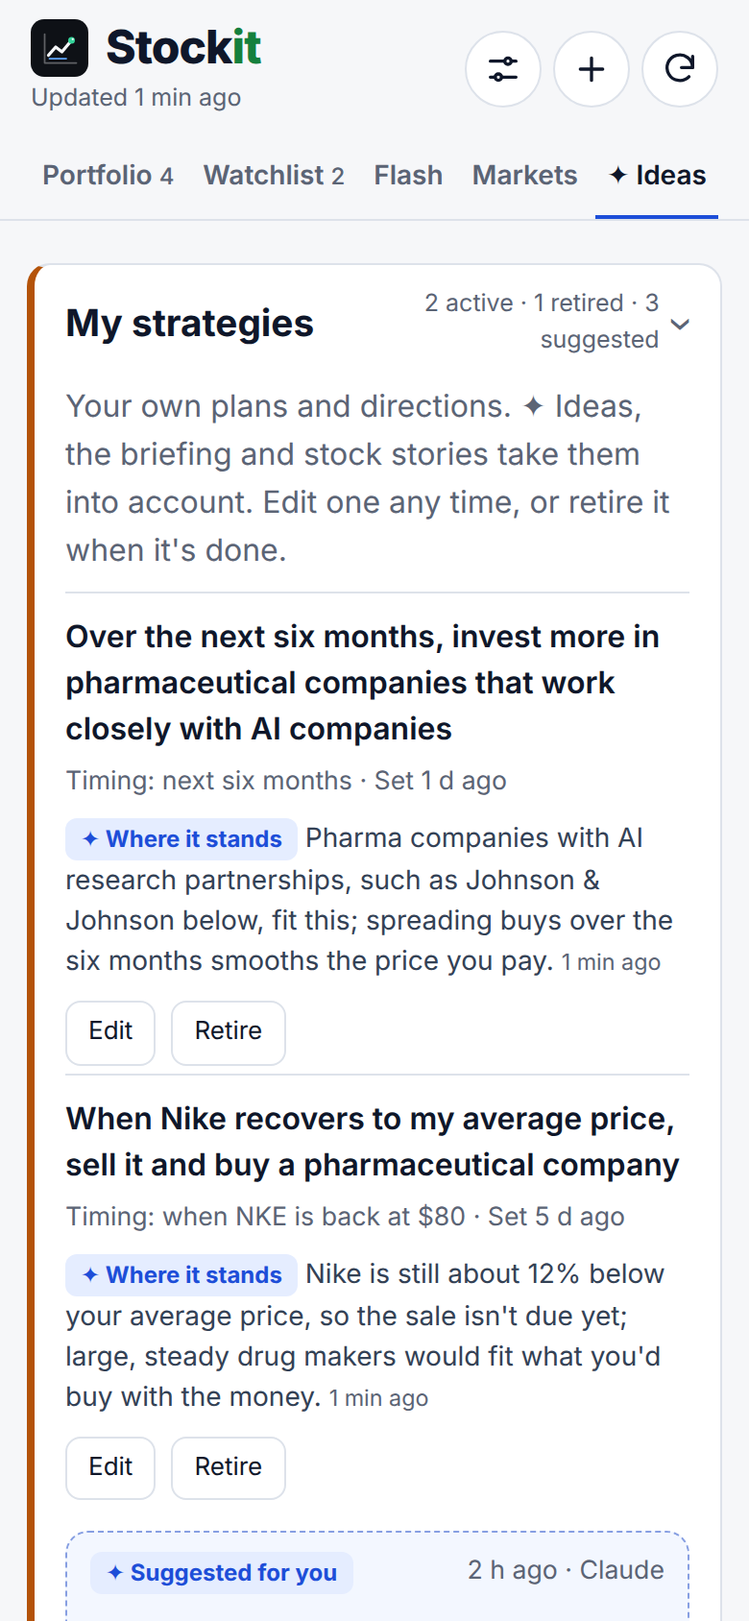
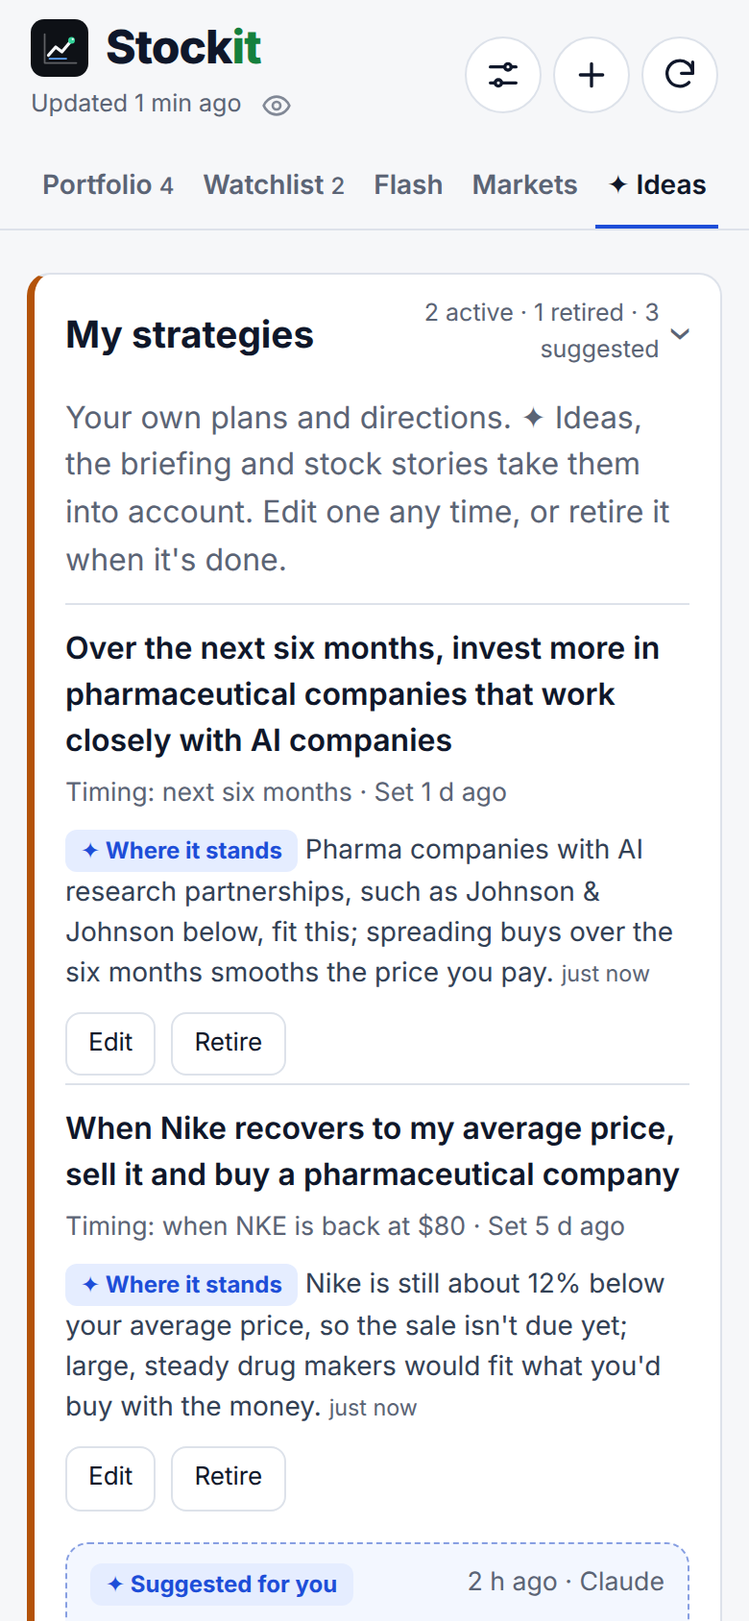
Stockit 1.11.0: privacy mode hides your amounts with one tap

diff --git a/Stockit.js b/Stockit.js
@@ -10,6 +10,7 @@
  *  - Prices and a year of history, P/E, market cap, dividend, analyst view, 52-week range, explained in plain words
  *  - Headlines from Yahoo Finance and the web (Google News), plus the crowd's mood from StockTwits
  *  - Flash: each stock's top headlines, a TL;DR of any headline (✦ AI or taken from the article), then the original source
+ *  - Privacy mode: one tap on the eye hides your amounts (value, gains, shares, average prices) for demos
  *  - ✦ Suggested strategies from your portfolio, watchlist and plans, refreshed on a schedule you choose; keep any as your own, and edit every strategy
  *  - Check my portfolio: screenshots of your broker's app compared with Stockit, every difference a suggestion you apply or ignore
  *  - All your money in one currency of your choice (euros, dollars, …), in the app and the widget
@@ -28,7 +29,7 @@
  */
 
 // This build's version. When releasing, bump it and add a matching entry to releases.json.
-const VERSION = '1.10.0';
+const VERSION = '1.11.0';
 const APP_ID = 'stockit';   // unique per app, never changes
 const REPO_RAW = 'https://raw.githubusercontent.com/gadominas/StockIt/main/';
 const SCRIPT_FILE = 'Stockit.js';   // the script's file name in the repository
@@ -226,7 +227,7 @@ const write = (n, v) => {
 
 // Defaults first, saved choices on top. Loaded here, before the app and widget branches.
 const settings = Object.assign(
-  { tab: "own", sort: "value", range: "1y", addTo: "watch", flashFold: {}, ideasFold: {}, checkIntro: 0, aiStrat: true,   // aiStrat: suggested strategies refresh on their own    // remembered picks; flashFold: symbol → newest headline time when folded
+  { tab: "own", sort: "value", range: "1y", addTo: "watch", flashFold: {}, ideasFold: {}, checkIntro: 0, aiStrat: true, privacy: false,   // privacy: your amounts hidden, for showing the app to someone   // aiStrat: suggested strategies refresh on their own    // remembered picks; flashFold: symbol → newest headline time when folded
     refreshOnOpen: true, widgetMoney: false, homeCur: "auto",   // homeCur: the currency your money is shown in (auto: your biggest holdings')                                    // Portfolio
     newsYahoo: true, newsWeb: true, crowd: true,                                // News and signals
     style: "balanced",                                                          // AI advice: cautious, balanced, adventurous
@@ -1454,7 +1455,7 @@ function clientState() {
       theme: settings.theme, density: settings.density, font: settings.font, textSize: settings.textSize,
       speechEngine: settings.speechEngine || "device", voiceURI: settings.voiceURI || "", voiceRate: settings.voiceRate || 1, voicePitch: settings.voicePitch || 1,
       voiceGender: settings.voiceGender || "all", ttsModel: settings.ttsModel || "gpt-4o-mini-tts", ttsVoice: settings.ttsVoice || "coral",
-      ttsInstructions: settings.ttsInstructions || "", hasOpenAI: !!keyFor("openai"), flashFold: settings.flashFold || {}, ideasFold: settings.ideasFold || {}, checkIntro: settings.checkIntro || 0, aiStrat: settings.aiStrat !== false,
+      ttsInstructions: settings.ttsInstructions || "", hasOpenAI: !!keyFor("openai"), flashFold: settings.flashFold || {}, ideasFold: settings.ideasFold || {}, checkIntro: settings.checkIntro || 0, aiStrat: settings.aiStrat !== false, privacy: !!settings.privacy,
     },
     ttsModels: settings.ttsModels || null,
     lastRefresh: settings.lastRefresh, palettes: PALETTES, version: VERSION,
@@ -1524,7 +1525,7 @@ async function handle(m) {
     case "secret-remove": if (SECRETS[m.v] && Keychain.contains(SECRETS[m.v].key)) { Keychain.remove(SECRETS[m.v].key); toast(`${SECRETS[m.v].name} removed`); } return push();
     case "state": return push();
     case "set":
-      if (["tab", "sort", "range", "addTo", "refreshOnOpen", "widgetMoney", "newsYahoo", "newsWeb", "crowd", "style", "ai", "theme", "density", "font", "textSize", "checkUpdates", "aiStrat",
+      if (["tab", "sort", "range", "addTo", "refreshOnOpen", "widgetMoney", "newsYahoo", "newsWeb", "crowd", "style", "ai", "theme", "density", "font", "textSize", "checkUpdates", "aiStrat", "privacy",
         "speechEngine", "voiceURI", "voiceRate", "voicePitch", "voiceGender", "ttsModel", "ttsVoice", "ttsInstructions"].includes(m.k)) settings[m.k] = m.v;
       if (m.k === "ideasFold" && m.v && typeof m.v === "object" && !Array.isArray(m.v)) settings.ideasFold = { strat: !!m.v.strat, themes: !!m.v.themes, ideas: !!m.v.ideas };
       if (m.k === "flashFold" && m.v && typeof m.v === "object" && !Array.isArray(m.v))   // folded Flash cards, kept for stocks you follow
@@ -1533,7 +1534,7 @@ async function handle(m) {
       if (m.k === "checkIntro" && isFinite(m.v)) settings.checkIntro = Math.max(0, Math.min(99, +m.v));
       write("settings", settings);
       if (m.k === "homeCur") { await loadFx().catch(() => {}); push(); }
-      if (m.k === "widgetMoney" || m.k === "homeCur") saveWidget(widgetSnapshot());
+      if (m.k === "widgetMoney" || m.k === "homeCur" || m.k === "privacy") saveWidget(widgetSnapshot());
       return;
     case "cfg": {
       if (m.k === "*") settings.cfg = {}; else setCfg(m.k, m.v);
@@ -1864,6 +1865,21 @@ function clientApp() {
     if (h == null) return f(v, cur, compact);
     return f(h, HOME(), compact) + (foreign(cur) ? `<small class="orig">${f(v, cur, compact)}</small>` : "");
   };
+  // Privacy mode (the eye in the header): your own amounts become •••• so the app can be shown to someone.
+  // Market prices and percentages stay; amounts written by AI or in your strategies are masked too.
+  const priv = () => !!S.settings.privacy;
+  const P = h => priv() ? `<span class="pv" title="Hidden">••••</span>` : h;
+  const MONEY_RX = /(?:US\$|[$€£¥]|\b(?:USD|EUR|GBP|CHF|SEK|NOK|DKK|PLN|JPY|CAD|AUD|HKD)\s?)\s?\d[\d,.\u00a0 ]*\d(?:\s?(?:[kKmMbB]n?|million|billion|thousand)\b)?|\b\d[\d,.\u00a0]*\d?\s?(?:USD|EUR|GBP|CHF|SEK|NOK|DKK|PLN|JPY|CAD|AUD|HKD|euros?|dollars?|pounds?)\b|\b\d[\d,.]*\s?(?:shares|units)\b/gi;
+  const mask = t => priv() ? String(t == null ? "" : t).replace(MONEY_RX, "••••") : t;
+  const PRIV_ON = `<svg viewBox="0 0 24 24" aria-hidden="true"><path d="M3 3l18 18M10.6 5.1A10.9 10.9 0 0 1 12 5c5.5 0 9.3 4.6 10 7-.3 1-1.1 2.4-2.4 3.8M6.6 6.6C4.4 8 2.9 10 2 12c.9 2.5 4.6 7 10 7 1.8 0 3.4-.5 4.8-1.2M9.9 9.9a3 3 0 0 0 4.2 4.2" fill="none" stroke="currentColor" stroke-width="2" stroke-linecap="round" stroke-linejoin="round"/></svg>`;
+  const PRIV_OFF = `<svg viewBox="0 0 24 24" aria-hidden="true"><path d="M2 12c.9-2.5 4.6-7 10-7s9.1 4.5 10 7c-.9 2.5-4.6 7-10 7S2.9 14.5 2 12z" fill="none" stroke="currentColor" stroke-width="2" stroke-linejoin="round"/><circle cx="12" cy="12" r="3" fill="none" stroke="currentColor" stroke-width="2"/></svg>`;
+  function renderPriv() {
+    const b = $("#privbtn"); if (!b) return;
+    b.innerHTML = priv() ? PRIV_ON : PRIV_OFF; b.classList.toggle("on", priv());
+    b.setAttribute("aria-pressed", priv() ? "true" : "false");
+    b.setAttribute("aria-label", priv() ? "Show your amounts" : "Hide your amounts");
+    document.body.classList.toggle("privacy", priv());
+  }
   const signed = (v, cur) => v == null || !isFinite(v) ? "—" : (v >= 0 ? "+" : "−") + money(Math.abs(v), cur, false, 2);
   const pct = (v, d = 2) => v == null || !isFinite(v) ? "—" : (v > 0 ? "+" : v < 0 ? "−" : "") + Math.abs(v).toFixed(d) + "%";
   const bigN = v => v == null || !isFinite(v) ? "—" : v >= 1e12 ? nf(v / 1e12, 2) + "T" : v >= 1e9 ? nf(v / 1e9, 1) + "B" : v >= 1e6 ? nf(v / 1e6, 0) + "M" : nf(v, 0);
@@ -2077,7 +2093,7 @@ function clientApp() {
   setInterval(tickMarkets, 30000);
 
   function paras(t, links) {
-    return String(t || "").split(/\n\s*\n/).map(p => p.trim()).filter(Boolean).map(p => `<p>${esc(p).replace(/\*\*(.+?)\*\*/g, "<strong>$1</strong>")
+    return String(mask(t) || "").split(/\n\s*\n/).map(p => p.trim()).filter(Boolean).map(p => `<p>${esc(p).replace(/\*\*(.+?)\*\*/g, "<strong>$1</strong>")
       .replace(/\s*\[(\d+(?:\s*,\s*\d+)*)\]/g, (m, g) => links ? `<span class="refw">${g.split(/\s*,\s*/).map(n => links[+n - 1] ? `<button class="ref" data-act="openlink" data-v="${esc(links[+n - 1].l)}" aria-label="Open headline ${+n}">${+n}</button>` : "").join("")}</span>` : "")}</p>`);
   }
   const sigChip = sig => sig ? `<span class="chip sig-${sig.signal}">✦ ${cap(sig.signal)}</span>` : "";
@@ -2095,9 +2111,9 @@ function clientApp() {
     const t = [["own", "Portfolio", own], ["watch", "Watchlist", watch], ["flash", "Flash", null], ["markets", "Markets", null], ["ideas", S.settings.hasKey ? "✦ Ideas" : "Ideas", null]];
     $("#tabs").innerHTML = t.map(([k, l, n]) => `<button class="${tab === k ? "on" : ""}" data-act="tab" data-v="${k}">${l}${n != null ? ` <span class="n">${n}</span>` : ""}</button>`).join("");
   }
-  function renderAll() { render(); renderDetail(); renderNews(); renderCheck(); renderAdd(); renderAI(); renderCfg(); }
+  function renderAll() { renderPriv(); render(); renderDetail(); renderNews(); renderCheck(); renderAdd(); renderAI(); renderCfg(); }
   function render() {
-    applyLook(); renderStatus(); renderTabs();
+    applyLook(); renderPriv(); renderStatus(); renderTabs();
     $("#main").innerHTML = tab === "ideas" ? ideasHTML() : tab === "flash" ? flashHTML() : tab === "markets" ? marketsHTML() : listHTML();
   }
 
@@ -2126,7 +2142,7 @@ function clientApp() {
   }
   function row(x) {
     const d = dayPct(x), c = cls(d);
-    const ph = posHome(x), sub = x.list === "own" && x.sh && x.price != null ? `${nf(x.sh, x.sh % 1 ? 2 : 0)} shares · ${ph != null ? money(ph, HOME(), true) : money(x.sh * x.price, x.cur, true)}` : esc(x.name);
+    const ph = posHome(x), sub = x.list === "own" && x.sh && x.price != null ? (priv() ? `${P("")} shares · ${P("")}` : `${nf(x.sh, x.sh % 1 ? 2 : 0)} shares · ${ph != null ? money(ph, HOME(), true) : money(x.sh * x.price, x.cur, true)}`) : esc(x.name);
     const sig = x.sig ? `<div class="r-sig">${sigChip(x.sig)}<span>${esc(x.sig.line)}</span></div>`
       : x.trend ? `<div class="r-sig"><span class="chip ex">${TREND[x.trend.trend]} · no AI</span></div>` : "";
     return `<div class="row" role="button" tabindex="0" data-act="open" data-v="${esc(x.s)}">
@@ -2148,10 +2164,10 @@ function clientApp() {
     const vals = items.map(x => [x.s, t.cur === HOME() ? posHome(x) : null]).filter(v => v[1] != null).sort((a, b) => b[1] - a[1]);
     const shown = vals.slice(0, 6), rest = vals.slice(6).reduce((a, b) => a + b[1], 0);
     if (rest > 0) shown.push(["Other", rest]);
-    return `<section class="sum">${checkIcon()}<span class="sum-k">Portfolio value${t.mixed ? ` in ${esc(t.cur)}` : ""}</span><div class="sum-v">${money(t.value, t.cur)}</div>
-      <div class="sum-d ${cls(t.day)}">${signed(t.day, t.cur)} (${pct(dp)}) today</div>
-      ${t.costKnown && t.cost ? `<div class="sum-g">${signed(t.value - t.cost, t.cur)} (${pct((t.value / t.cost - 1) * 100)}) since you bought</div>` : ""}
-      ${T.length > 1 ? `<p class="note">Plus ${T.slice(1).map(z => money(z.value, z.cur)).join(" and ")} until their exchange rates load</p>` : ""}
+    return `<section class="sum">${checkIcon()}<span class="sum-k">Portfolio value${t.mixed ? ` in ${esc(t.cur)}` : ""}</span><div class="sum-v">${P(money(t.value, t.cur))}</div>
+      <div class="sum-d ${cls(t.day)}">${P(signed(t.day, t.cur))} (${pct(dp)}) today</div>
+      ${t.costKnown && t.cost ? `<div class="sum-g">${P(signed(t.value - t.cost, t.cur))} (${pct((t.value / t.cost - 1) * 100)}) since you bought</div>` : ""}
+      ${T.length > 1 ? `<p class="note">Plus ${T.slice(1).map(z => P(money(z.value, z.cur))).join(" and ")} until their exchange rates load</p>` : ""}
       ${t.mixed ? `<p class="note">Stocks in other currencies at today's exchange rates. Change the currency in <button class="link small" data-act="cfgopen">Settings › Portfolio</button>.</p>` : ""}
       ${shown.length > 1 ? `<div class="alloc" aria-hidden="true">${shown.map((v, i) => `<i style="flex:${v[1].toFixed(2)};background:color-mix(in srgb, var(--signal) ${Math.max(18, 100 - i * 13)}%, var(--sheet))"></i>`).join("")}</div>
         <div class="alloc-l">${shown.map((v, i) => `<span><i style="background:color-mix(in srgb, var(--signal) ${Math.max(18, 100 - i * 13)}%, var(--sheet))"></i>${esc(v[0])} ${(v[1] / t.value * 100).toFixed(0)}%</span>`).join("")}</div>` : ""}
@@ -2176,7 +2192,7 @@ function clientApp() {
     S.stocks.forEach(x => { if (x.sig && n[x.sig.signal] != null) n[x.sig.signal]++; });
     return `<section class="brief mood-${esc(b.mood)}">
       <div class="brief-h"><span class="badge-ai">✦ AI briefing by ${PN[b.by] || esc(b.by)}</span><span class="note">${rel(b.at)}</span></div>
-      <h2 class="brief-t">${esc(b.headline)}</h2>
+      <h2 class="brief-t">${esc(mask(b.headline))}</h2>
       <div class="brief-s">${(briefFull ? ps : ps.slice(0, 1)).join("")}</div>
       ${ps.length > 1 ? `<button class="link small" data-act="brieffull">${briefFull ? "Show less" : "Read the full briefing"}</button>` : ""}
       ${briefFull && (b.watch || []).length ? `<h3 class="mini">Keep an eye on</h3><ul class="dots">${b.watch.map(w => `<li>${esc(w)}</li>`).join("")}</ul>` : ""}
@@ -2196,8 +2212,8 @@ function clientApp() {
     const card = g => {
       const ed = sgEdit[g.id];
       return `<article class="strat-c sg">${ed ? `<textarea class="sg-in" data-id="${esc(g.id)}" data-f="text" rows="3">${esc(ed.text)}</textarea><input class="sg-in cfgin wide" data-id="${esc(g.id)}" data-f="when" value="${esc(ed.when)}" placeholder="Timing (optional)">`
-        : `<p class="strat-t">${esc(g.text)}</p>${g.when ? `<small class="muted">Timing: ${esc(g.when)}</small>` : ""}`}
-        ${g.why ? `<p class="strat-ai">${esc(g.why)}</p>` : ""}${(g.tickers || []).length ? `<div class="sg-tk">${g.tickers.map(t => `<button class="chip" data-act="${S.stocks.some(x => x.s === t) ? "open" : "preview"}" data-v="${esc(t)}">${esc(t)}</button>`).join("")}</div>` : ""}
+        : `<p class="strat-t">${esc(mask(g.text))}</p>${g.when ? `<small class="muted">Timing: ${esc(mask(g.when))}</small>` : ""}`}
+        ${g.why ? `<p class="strat-ai">${esc(mask(g.why))}</p>` : ""}${(g.tickers || []).length ? `<div class="sg-tk">${g.tickers.map(t => `<button class="chip" data-act="${S.stocks.some(x => x.s === t) ? "open" : "preview"}" data-v="${esc(t)}">${esc(t)}</button>`).join("")}</div>` : ""}
         <div class="aic-btns"><button class="sm primary" data-act="sgkeep" data-v="${esc(g.id)}">${ed ? "Keep my version" : "Keep"}</button>${ed ? `<button class="sm" data-act="sgcancel" data-v="${esc(g.id)}">Cancel</button>` : `<button class="sm" data-act="sgedit" data-v="${esc(g.id)}">Edit, then keep</button>`}<button class="sm" data-act="sgdismiss" data-v="${esc(g.id)}">Dismiss</button></div></article>`;
     };
     return `<div class="sg-box"><div class="sg-h"><span class="badge-ai">✦ Suggested for you</span>${G ? `<small class="muted">${rel(G.at)}${G.by ? " · " + (PN[G.by] || esc(G.by)) : ""}</small>` : ""}</div>
@@ -2214,9 +2230,9 @@ function clientApp() {
       if (ed) return `<article class="strat-c editing"><label class="lk-l">Your strategy</label><textarea id="stratEditText" rows="3">${esc(stratEdit.text)}</textarea>
         <input id="stratEditWhen" class="cfgin wide" placeholder="Timing (optional)" value="${esc(stratEdit.when)}">
         <div class="aic-btns"><button class="sm primary" data-act="stratsave" data-v="${esc(g.id)}">Save</button><button class="sm" data-act="stratcancel">Cancel</button></div></article>`;
-      return `<article class="strat-c ${g.status === "retired" ? "retired" : ""}"><p class="strat-t">${esc(g.text)}</p>
-      <small class="muted">${g.when ? `Timing: ${esc(g.when)} · ` : ""}${g.from === "suggested" ? "From a ✦ suggestion · " : ""}Set ${rel(g.at)}${g.editedAt ? ` · changed ${rel(g.editedAt)}` : ""}${g.status === "retired" && g.retiredAt ? ` · retired ${rel(g.retiredAt)}` : ""}</small>
-      ${n ? `<p class="strat-ai"><span class="badge-ai">✦ Where it stands</span> ${esc(n[0])} <small class="muted">${rel(n[1])}</small></p>` : ""}
+      return `<article class="strat-c ${g.status === "retired" ? "retired" : ""}"><p class="strat-t">${esc(mask(g.text))}</p>
+      <small class="muted">${g.when ? `Timing: ${esc(mask(g.when))} · ` : ""}${g.from === "suggested" ? "From a ✦ suggestion · " : ""}Set ${rel(g.at)}${g.editedAt ? ` · changed ${rel(g.editedAt)}` : ""}${g.status === "retired" && g.retiredAt ? ` · retired ${rel(g.retiredAt)}` : ""}</small>
+      ${n ? `<p class="strat-ai"><span class="badge-ai">✦ Where it stands</span> ${esc(mask(n[0]))} <small class="muted">${rel(n[1])}</small></p>` : ""}
       <div class="aic-btns">${g.status === "retired"
         ? `<button class="sm" data-act="stratrestore" data-v="${esc(g.id)}">Bring back</button><button class="sm danger ${stratArmed === g.id ? "armed" : ""}" data-act="stratdelete" data-v="${esc(g.id)}">${stratArmed === g.id ? "Confirm" : "Delete"}</button>`
         : `<button class="sm" data-act="stratedit" data-v="${esc(g.id)}">Edit</button><button class="sm" data-act="stratretire" data-v="${esc(g.id)}">Retire</button>`}</div></article>`;
@@ -2333,11 +2349,11 @@ function clientApp() {
     if (!x.sh) return `<section class="hold"><p class="muted">How many shares do you own? Add them to see your value and gain.</p><button class="sm primary" data-act="holding" data-v="${esc(x.s)}">Add shares</button></section>`;
     const v = x.price != null ? x.sh * x.price : null, g = x.cost && v != null ? v - x.sh * x.cost : null, dh = dayHome(x);
     return `<section class="hold"><div class="hold-g">
-      <div><small>Shares</small><b>${nf(x.sh, x.sh % 1 ? 2 : 0)}</b></div><div><small>Value</small><b>${homeMoney(v, x.cur)}</b></div>
-      <div><small>Today</small><b class="${cls(dh != null ? dh : dayPct(x))}">${dh != null ? signed(dh, HOME()) + (foreign(x.cur) ? `<small class="orig">${signed(x.sh * (x.price - x.prev), x.cur)}</small>` : "") : x.prev ? signed(x.sh * (x.price - x.prev), x.cur) : "—"}</b></div>
-      <div><small>Since you bought</small><b class="${cls(g)}">${g != null ? homeMoney(g, x.cur, false, true) + " (" + pct((x.price / x.cost - 1) * 100, 1) + ")" : "—"}</b></div></div>
+      <div><small>Shares</small><b>${P(nf(x.sh, x.sh % 1 ? 2 : 0))}</b></div><div><small>Value</small><b>${P(homeMoney(v, x.cur))}</b></div>
+      <div><small>Today</small><b class="${cls(dh != null ? dh : dayPct(x))}">${P(dh != null ? signed(dh, HOME()) + (foreign(x.cur) ? `<small class="orig">${signed(x.sh * (x.price - x.prev), x.cur)}</small>` : "") : x.prev ? signed(x.sh * (x.price - x.prev), x.cur) : "—")}${priv() ? ` <small>${pct(dayPct(x))}</small>` : ""}</b></div>
+      <div><small>Since you bought</small><b class="${cls(g)}">${g != null ? P(homeMoney(g, x.cur, false, true)) + " (" + pct((x.price / x.cost - 1) * 100, 1) + ")" : "—"}</b></div></div>
       ${foreign(x.cur) && fxr(x.cur) != null ? `<p class="note">In ${esc(HOME())} at today's rate; the stock trades in ${esc(x.cur)}.</p>` : ""}
-      ${x.cost ? `<p class="note">Average price ${money(x.cost, x.cur)}</p>` : ""}</section>`;
+      ${x.cost ? `<p class="note">Average price ${P(money(x.cost, x.cur))}</p>` : ""}</section>`;
   }
   function signalHTML(x) {
     if (x.sig) return `<section class="sigsec"><h3 class="sec">Stockit's view</h3>
@@ -2583,7 +2599,7 @@ function clientApp() {
     const d = dayPct(x), own = x.list === "own" && x.sh, dh = own ? dayHome(x) : null, todayMoney = dh != null ? dh : own && x.prev != null && x.price != null ? x.sh * (x.price - x.prev) : null, tmCur = dh != null ? HOME() : x.cur;
     const r = ratingWord(x.f && x.f.rating), c = x.crowd, crowd = c && c.bull + c.bear >= 5 ? Math.round(c.bull / (c.bull + c.bear) * 100) : null;
     return `<span class="pill ${cls(d)}">${pct(d)}</span>
-      ${own ? `<span class="fl-k">${nf(x.sh, x.sh % 1 ? 2 : 0)} share${x.sh === 1 ? "" : "s"}</span><span class="fl-m ${cls(todayMoney)}">${todayMoney != null ? signed(todayMoney, tmCur) + " today" : ""}</span>`
+      ${own ? `<span class="fl-k">${P(nf(x.sh, x.sh % 1 ? 2 : 0))} share${x.sh === 1 ? "" : "s"}</span><span class="fl-m ${cls(todayMoney)}">${todayMoney != null ? P(signed(todayMoney, tmCur)) + " today" : ""}</span>`
         : x.list !== "own" ? `<span class="fl-k">Watching</span>` : `<span class="fl-k">Shares not set</span>`}
       ${x.sig ? sigChip(x.sig) : x.trend ? `<span class="chip t-${x.trend.trend}">${TREND[x.trend.trend]}</span>` : ""}
       ${r ? `<span class="fl-r" title="Average analyst rating">Analysts <b>${esc(r[0])}</b>${r[1] ? ` <span class="muted">${esc(r[1])}</span>` : ""}</span>` : ""}
@@ -2949,10 +2965,11 @@ function clientApp() {
     const items = C.items.slice().sort((a, b) => (!!a.resolved - !!b.resolved) || order[ckStatus(a)] - order[ckStatus(b)]);
     const count = k => C.items.filter(i => ckStatus(i) === k).length, todo = C.items.filter(i => i.kind !== "match" && !i.resolved).length;
     const m2 = (v, c2) => v == null ? "—" : money(v, c2);
-    const fld = (it, f, label, val, c2) => `<label class="ck-f"><span>${label}${c2 ? ` (${esc(c2)})` : ""}</span><input class="ck-in" inputmode="decimal" data-id="${it.id}" data-f="${f}" value="${esc(ckEdit[it.id] && ckEdit[it.id][f] != null ? ckEdit[it.id][f] : val != null ? +(+val).toFixed(4) : "")}"></label>`;
-    const nsh = v => nf(v, v % 1 ? 4 : 0);
+    const fldReal = (it, f, label, val, c2) => `<label class="ck-f"><span>${label}${c2 ? ` (${esc(c2)})` : ""}</span><input class="ck-in" inputmode="decimal" data-id="${it.id}" data-f="${f}" value="${esc(ckEdit[it.id] && ckEdit[it.id][f] != null ? ckEdit[it.id][f] : val != null ? +(+val).toFixed(4) : "")}"></label>`;
+    const fld = (...a) => priv() ? `<p class="note">Turn off privacy (the eye at the top) to see and edit amounts.</p>` : fldReal(...a);
+    const nsh = v => priv() ? "••••" : nf(v, v % 1 ? 4 : 0);
     const cmp = it => {
-      const yh = it.kind === "missing";
+      const yh = it.kind === "missing", m2 = (v, c2) => v == null ? "—" : priv() ? "••••" : money(v, c2);
       const row = (label, a, b, bad) => `<div class="ck-r ${bad ? "bad" : ""}"><span>${label}</span><b>${a}</b><b>${b}</b><i>${bad ? "≠" : a !== "—" && b !== "—" ? "✓" : ""}</i></div>`;
       if (it.kind === "extra") return `<div class="ck-cmp"><div class="ck-r hd"><span></span><span>Stockit</span><span>Broker</span><i></i></div>${row("Shares", nsh(it.mine.sh), "not shown", true)}${row("Price now", m2(it.mine.price, it.cur), "—", false)}</div>`;
       return `<div class="ck-cmp"><div class="ck-r hd"><span></span><span>${yh ? "Yahoo" : "Stockit"}</span><span>Broker</span><i></i></div>
@@ -2979,7 +2996,7 @@ function clientApp() {
       <section class="sum ck-res"><span class="sum-k">Checked ${C.n} position${C.n === 1 ? "" : "s"}${C.broker ? " from " + esc(C.broker) : ""}</span>
         <div class="sum-v ${todo ? "" : "up"}">${todo ? `${todo} to review` : "All in step ✓"}</div>
         <div class="ck-chips">${["match", "differs", "price", "watch", "missing", "extra"].map(k => chip(k, count(k))).join("")}</div>
-        ${C.total != null ? `<p class="ck-tot">Broker's total ${money(C.total, C.totalCur || (C.mineTotal || {}).cur)}${C.mineTotal ? ` · Stockit ${money(C.mineTotal.v, C.mineTotal.cur)}${C.totalInMine != null ? ` <small class="${Math.abs(C.totalInMine / C.mineTotal.v - 1) > 0.02 ? "down" : "muted"}">${pct((C.mineTotal.v / C.totalInMine - 1) * 100, 1)}</small>` : ""}` : ""}</p>` : ""}
+        ${C.total != null ? `<p class="ck-tot">Broker's total ${P(money(C.total, C.totalCur || (C.mineTotal || {}).cur))}${C.mineTotal ? ` · Stockit ${P(money(C.mineTotal.v, C.mineTotal.cur))}${C.totalInMine != null ? ` <small class="${Math.abs(C.totalInMine / C.mineTotal.v - 1) > 0.02 ? "down" : "muted"}">${pct((C.mineTotal.v / C.totalInMine - 1) * 100, 1)}</small>` : ""}` : ""}</p>` : ""}
         <p class="note">Read by ✦ ${PN[C.by] || esc(C.by)} ${rel(C.at)} from ${C.shots} screenshot${C.shots === 1 ? "" : "s"}. AI can misread a screenshot, so check a suggestion before you apply it.</p></section>
       ${(C.thumbs || []).length ? thumbs(C.thumbs, false) : ""}
       <div class="ck-list">${items.map(card).join("")}</div>
@@ -3079,6 +3096,7 @@ function clientApp() {
         if (stratArmed !== v) { stratArmed = v; render(); setTimeout(() => { if (stratArmed === v) { stratArmed = null; render(); } }, 3500); break; }
         stratArmed = null; send("stratdelete", { v }); break;
       case "mktopen": tab = v; render(); break;
+      case "privacy": S.settings.privacy = !priv(); send("set", { k: "privacy", v: S.settings.privacy }); renderPriv(); renderAll(); window.toast(priv() ? "Your amounts are hidden" : "Your amounts are showing"); break;
       case "checkopen": checkOpen = true; renderCheck(); $("#checksheet").scrollTop = 0; break;
       case "checkclose": checkOpen = false; renderCheck(); break;
       case "checkrun": ckProg = { p: 0.02, label: "Starting…" }; ckShown = 0.02; send("checkrun", {}); renderCheck(); break;
@@ -3229,6 +3247,11 @@ button[disabled]{opacity:.55}
 .brand-mark{width:30px;height:30px;border-radius:7px;background:#0E1116;flex:none}
 .brand .x{color:var(--up)}
 .status{font-size:calc(12.5px * var(--ts));color:var(--muted);margin-top:3px;min-height:1.2em}
+.st-row{display:flex;align-items:center;gap:6px;margin-top:3px} .st-row .status{margin-top:0}
+.privbtn{width:24px;height:24px;flex:none;border-radius:12px;display:grid;place-items:center;color:var(--muted);opacity:.75}
+.privbtn svg{width:16px;height:16px}
+.privbtn.on{color:var(--paper);background:var(--signal);opacity:1}
+.pv{display:inline-block;letter-spacing:.12em;color:var(--muted);font-weight:700;filter:blur(.3px);user-select:none;-webkit-user-select:none}
 .tb-a{display:flex;gap:6px}
 .icon{width:40px;height:40px;border-radius:20px;display:grid;place-items:center;background:var(--sheet);border:1px solid var(--rule)}
 .icon svg{width:20px;height:20px;stroke:currentColor;fill:none;stroke-width:2;stroke-linecap:round;stroke-linejoin:round}
@@ -3727,7 +3750,7 @@ const buildHTML = () => `<!doctype html><html data-theme="${initTheme}" data-fon
   <div class="spTag">Track. Read. Decide.</div>
 </div>
 <header id="top">
-  <div class="tb"><div><h1 class="brand"><svg class="brand-mark" viewBox="0 0 240 240" aria-hidden="true">${LOGO_SVG}</svg><span>Stock<span class="x">it</span></span></h1><div id="status" class="status"></div></div>
+  <div class="tb"><div><h1 class="brand"><svg class="brand-mark" viewBox="0 0 240 240" aria-hidden="true">${LOGO_SVG}</svg><span>Stock<span class="x">it</span></span></h1><div class="st-row"><div id="status" class="status"></div><button id="privbtn" class="privbtn" data-act="privacy" aria-pressed="false" aria-label="Hide your amounts"></button></div></div>
     <div class="tb-a"><button class="icon" data-act="cfgopen" aria-label="Settings">${SETTINGS_SVG}</button>
     <button class="icon" data-act="addopen" aria-label="Add stocks">${ADD_SVG}</button>
     <button class="icon rf" data-act="refresh" aria-label="Refresh prices and news">${REFRESH_SVG}</button></div></div>
@@ -3802,7 +3825,7 @@ function widgetSnapshot(pricesAt) {
   return {
     n: stocks.length, owned: stocks.filter(x => x.list === "own").length, scope: own.length ? "own" : "watch",
     dayPct: tot && tot.value - tot.day ? tot.day / (tot.value - tot.day) * 100 : avg,
-    value: tot && settings.widgetMoney ? { v: tot.value, day: tot.day, cur: tot.cur } : null,
+    value: tot && settings.widgetMoney && !settings.privacy ? { v: tot.value, day: tot.day, cur: tot.cur } : null,   // privacy mode hides it here too
     movers: base.slice().sort((a, b2) => Math.abs(b2.chg) - Math.abs(a.chg)).slice(0, 6),
     headline: b && Date.now() - b.at < 48 * 3600e3 ? b.headline : "",
     prices: pricesAt || settings.lastRefresh || 0,

diff --git a/README.md b/README.md
@@ -10,7 +10,7 @@ Your stocks, the news around them and a plain-English story of what's going on.<
 
 An iPhone and iPad app for [Scriptable](https://scriptable.app). One file. No account, no server, no subscription.
 
-[![Version](https://img.shields.io/badge/version-1.10.0-1d4ed8)](CHANGELOG.md)
+[![Version](https://img.shields.io/badge/version-1.11.0-1d4ed8)](CHANGELOG.md)
 [![Platform](https://img.shields.io/badge/iOS-Scriptable-0f172a)](https://apps.apple.com/app/scriptable/id1405459188)
 [![AI](https://img.shields.io/badge/AI-Claude%20or%20OpenAI%2C%20optional-8b5cf6)](#ai-on-your-terms)
 [![Not financial advice](https://img.shields.io/badge/not-financial%20advice-b91c1c)](#not-financial-advice)
@@ -120,6 +120,7 @@ Most stock apps show you a price and a wall of headlines. Stockit is made for a 
 | ✦ **Daily briefing** | After a refresh, AI writes a short story of your portfolio today, what to keep an eye on, and a buy, hold or sell view with one line per stock. At most every 6 hours, or when your stocks change. |
 | ✦ **A story per stock** | What the company does, what's happening now and why, whether the price looks cheap or expensive, why buy, what could go wrong and what to watch, with numbered links to its sources. |
 | ✦ **Ideas** | New stocks worth a closer look, picked for your investing style, your strategies and your themes, from what's trending and from good-value lists. Each comes with its key numbers and technicals (P/E, dividend yield, market cap, 50- and 200-day averages, RSI and more); tap one to open its full stock page before you add it. |
+| 👁 **Privacy for demos** | One tap on the small eye at the top hides your amounts (value, gains, shares, average prices) as ••••, so you can show Stockit to anyone. Prices, percentages and charts stay. |
 | 📸 **Check against your broker** | Upload screenshots of your broker's portfolio: ✦ AI reads every position and Stockit lists what's missing, what you no longer hold, and where shares, average prices or prices differ. Each is a suggestion you apply, edit or ignore; nothing changes on its own. |
 | 📥 **Bring them in fast** | Search by name or ticker, paste a list (`AAPL 10 @ 150`, `MSFT, NVDA`), open a broker CSV export, or ✦ read the tickers from a screenshot. |
 | 🎨 **Make it yours** | Six colour themes plus Auto (follows light and dark mode), Comfortable, Compact or Tiny layouts, four text sizes, sans or serif headlines. |
@@ -129,6 +130,22 @@ Most stock apps show you a price and a wall of headlines. Stockit is made for a 
 | 🧩 **Built with** | The last section of Settings lists the [shared blueprints](https://github.com/gadominas/app-blueprints) Stockit follows, each linked at the exact version used (see [docs/BLUEPRINTS.md](docs/BLUEPRINTS.md)). |
 | 📲 **Widget** | Today's move for your portfolio and your biggest movers on the Home Screen, in the same frame and colours as the other apps' widgets. |
 | ⬆ **Updates itself** | When a new version is out, Stockit shows its three best features and installs it with one tap. |
+
+## Privacy for demos
+
+<img src="docs/screenshots/31-privacy.png" width="250" align="right" alt="The portfolio with privacy on: the value and gains shown as dots, percentages still visible, and the eye button highlighted">
+
+Showing Stockit to someone? Tap the **small eye** beside **Updated** at the top left. It turns blue and your amounts become **••••**:
+
+- Portfolio value, today's change and gain since you bought (the percentages stay).
+- Each stock's shares, value, today's money, gain and average price, on its page, in the lists and in Flash.
+- The amounts in a portfolio check (editing waits until privacy is off).
+- Amounts and share counts inside ✦ AI texts and in your strategies.
+- The widget's amounts, even if **Show portfolio value in the widget** is on.
+
+Market prices, percentages, charts, headlines and ideas stay visible, so the demo still shows everything Stockit does. Privacy stays on, even after closing Stockit, until you tap the eye again.
+
+<br clear="right">
 
 ## Check against your broker
 
@@ -325,6 +342,7 @@ API usage is billed by Anthropic or OpenAI, separately from any Claude or ChatGP
 | See the price at any moment | Open a stock and touch or drag across its chart; **1D** and **1W** show the day and the week |
 | See everything in euros (or dollars) | **Settings › Portfolio › Show your money in** |
 | See which markets are open | Look for **Open** or **Closed** under each stock, or open **Markets** |
+| Hide your amounts for a demo | Tap the small **eye** beside **Updated**; tap again to show them |
 | Check Stockit against your broker | Tap the **✓ shield** on your portfolio, add screenshots, tap **Check**, then apply or ignore each suggestion |
 | Look at an idea closely | **Ideas**, tap the idea's ticker or **See everything** |
 | Change the themes for ideas | **Ideas › Themes you like** |
